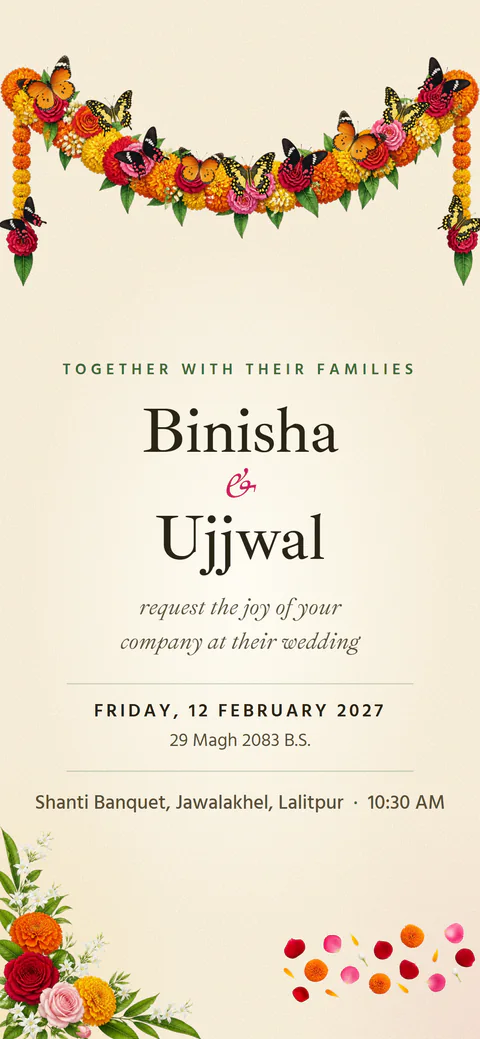
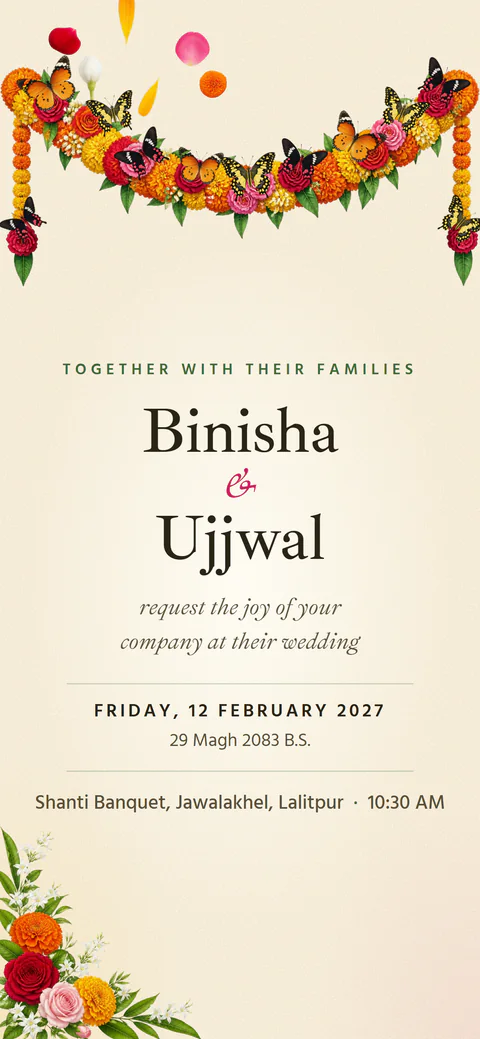
fix(vasant): ceremony date and time always visible; organic petal drifts
- Phone: the sticky ceremony heading now carries the date, B.S. date and time with the name
- Petal scatters are built from separate painted pieces: fewer, varied sizes and turns, spaced, drifting off one
  edge; kept away from the top-right buttons

diff --git a/src/themes/vasant/parts.js b/src/themes/vasant/parts.js
@@ -82,6 +82,28 @@ export function flowersFor(events) {
 export const RULE = `<svg class="va-rule" viewBox="0 0 240 24" aria-hidden="true" focusable="false"><path d="M10 12h88M142 12h88" fill="none" stroke="currentColor" stroke-width=".9" stroke-linecap="round"/><g fill="currentColor"><g transform="rotate(-30 70 12)"><path d="M70 12c4-6 10-8 15-7c-3 5 -8 7 -15 7z"/><path d="M70 12c4 6 10 8 15 7c-3-5 -8-7 -15-7z" opacity=".75"/></g><g transform="rotate(30 170 12)"><path d="M170 12c-4-6 -10-8 -15-7c3 5 8 7 15 7z"/><path d="M170 12c-4 6 -10 8 -15 7c3-5 8-7 15-7z" opacity=".75"/></g><g transform="rotate(-30 44 12)"><path d="M44 12c4-6 10-8 15-7c-3 5 -8 7 -15 7z"/><path d="M44 12c4 6 10 8 15 7c-3-5 -8-7 -15-7z" opacity=".75"/></g><g transform="rotate(30 196 12)"><path d="M196 12c-4-6 -10-8 -15-7c3 5 8 7 15 7z"/><path d="M196 12c-4 6 -10 8 -15 7c3-5 8-7 15-7z" opacity=".75"/></g><ellipse cx="120" cy="6.5" rx="2.6" ry="4.6"/><ellipse cx="120" cy="17.5" rx="2.6" ry="4.6"/><ellipse cx="114.5" cy="12" rx="4.6" ry="2.6"/><ellipse cx="125.5" cy="12" rx="4.6" ry="2.6"/><circle cx="120" cy="12" r="2.2" fill="#C2185B"/><circle cx="10" cy="12" r="1.5"/><circle cx="230" cy="12" r="1.5"/></g></svg>`;
 
 /** loose petals and marigold heads, laid in a gap (never behind text) */
-export const petals = (cls = '') => `<img class="va-petals ${cls}" src="${ART}petals-sm.webp" srcset="${ART}petals-sm.webp 700w, ${ART}petals.webp 1400w" sizes="(max-width: 719px) 86vw, 560px" width="1400" height="514" alt="" loading="lazy" decoding="async" aria-hidden="true" />`;
+// the separate petals and marigold heads of one painted scatter (petal-<k>.webp, [width, height])
+const PIECES = [[217, 220], [220, 211], [220, 214], [220, 210], [213, 220], [206, 220], [220, 209], [216, 220], [216, 220], [220, 213], [220, 216], [204, 196], [120, 192], [116, 192], [192, 132], [152, 172], [148, 164], [92, 196], [104, 188]];
+const rng = (seed) => { let s = (seed * 7919 + 13) % 2147483647; return () => (s = (s * 16807) % 2147483647) / 2147483647; };
+/** An organic petal drift: a few loose pieces of varied size and turn, thinning out toward one edge and slipping
+ *  past it (the container clips them). Deterministic per seed, so the page looks the same on every visit. */
+export function scatter(seed, { n = 6, side = 'right', cls = '' } = {}) {
+  const r = rng(seed);
+  const pool = PIECES.map((_, k) => k);
+  let html = '';
+  for (let i = 0; i < n; i++) {
+    const k = pool.splice(Math.floor(r() * pool.length), 1)[0];
+    const t = n > 1 ? i / (n - 1) : 0.5;
+    const along = 26 + t * 80 + (r() - 0.5) * 8; // evenly drifting toward the edge, the last one past it
+    const x = side === 'right' ? along : 100 - along;
+    const y = (i % 2 ? 62 : 30) + (r() - 0.5) * 22; // alternate high and low so no two pieces touch
+    const s = (0.5 + r() * 0.55) * (1.1 - 0.35 * t);
+    const rot = Math.round((r() - 0.5) * 150);
+    const [w, h] = PIECES[k];
+    const f = w / Math.max(w, h); // size by the longer side, so a slim petal is not drawn huge
+    html += `<img class="va-pc" src="${ART}petal-${k}.webp" width="${w}" height="${h}" style="left:${x.toFixed(1)}%;top:${y.toFixed(1)}%;--s:${s.toFixed(2)};--f:${f.toFixed(2)};rotate:${rot}deg" alt="" loading="lazy" decoding="async" />`;
+  }
+  return `<div class="va-scatter ${cls}" aria-hidden="true">${html}</div>`;
+}
 
 export const ROMAN = ['I', 'II', 'III', 'IV', 'V', 'VI', 'VII', 'VIII', 'IX', 'X', 'XI', 'XII'];

diff --git a/src/themes/vasant/main.js b/src/themes/vasant/main.js
@@ -11,7 +11,7 @@
 import manifest from './slots.js';
 import { mountSuite } from '../_suite/suite.js';
 import './vasant.css'; // after the suite's CSS, so the theme wins ties
-import { ART, SPECIES, butterfly, garland, FLOWERS, flowersFor, ROMAN, RULE, petals } from './parts.js';
+import { ART, SPECIES, butterfly, garland, FLOWERS, flowersFor, ROMAN, RULE, scatter } from './parts.js';
 
 const isPhone = () => window.matchMedia('(max-width: 899px)').matches;
 
@@ -23,7 +23,7 @@ function hero(ctx) {
     ${garland()}
     <div class="va-hero__decor" aria-hidden="true">
       <img class="va-corner-fl" src="${ART}corner-sm.webp" srcset="${ART}corner-sm.webp 700w, ${ART}corner.webp 1300w" sizes="(max-width: 719px) 46vw, 300px" width="1300" height="1372" alt="" decoding="async" />
-      <img class="va-hero__petals" src="${ART}petals-sm.webp" srcset="${ART}petals-sm.webp 700w, ${ART}petals.webp 1400w" sizes="(max-width: 719px) 52vw, 340px" width="1400" height="514" alt="" decoding="async" />
+      ${scatter(3, { n: 7, side: 'right', cls: 'va-hero__scatter' })}
     </div>
     <div class="va-hero__text">
       ${on(txt('hero.title')) ? `<p class="va-kicker su-in">${bi(txt('hero.title'))}</p>` : ''}
@@ -229,15 +229,15 @@ function page(ctx) {
       <li class="va-ev" id="ev-${esc(v.id)}" data-i="${i}">
         <article class="va-ev__card">
           <header class="va-ev__head"><p class="va-ev__no">${bi({ en: `Plate ${ROMAN[i] || i + 1} · ${FLOWERS[keys[i]].name.en}`, ne: `चित्र ${ctx.neNum(String(i + 1))} · ${FLOWERS[keys[i]].name.ne}` })}</p>
-          <h3 class="va-ev__title">${bi(v.title)}</h3></header>
+          <h3 class="va-ev__title">${bi(v.title)}</h3>
           <p class="va-ev__when"><span class="va-ev__ad">${bi({ en: v.ad.full.en, ne: v.bs.full.ne })}</span><span class="va-ev__bs">${bi({ en: v.bs.full.en, ne: v.ad.full.ne })}</span></p>
-          <p class="va-ev__time">${bi(v.time)}</p>
+          <p class="va-ev__time">${bi(v.time)}</p></header>
           ${v.blurb ? `<p class="va-ev__blurb">${bi(v.blurb)}</p>` : ''}
           <p class="va-ev__venue">${bi(v.venue)} <a class="su-link" href="${esc(v.map)}" target="_blank" rel="noopener">${bi(P.UI.map)}<span aria-hidden="true"> ↗</span><span class="sr-only"> (opens Google Maps)</span></a></p>
           ${v.dress.colors.length || v.dress.text?.en || v.dress.text?.ne ? `<p class="va-ev__dress">${v.dress.colors.length ? `<span class="su-sw" aria-hidden="true">${v.dress.colors.map((col) => `<i style="background:${col}"></i>`).join('')}</span>` : ''}<span>${bi(v.dress.text?.en || v.dress.text?.ne ? v.dress.text : P.UI.wear)}</span></p>` : ''}
           ${v.rituals.length ? `<details class="va-order"><summary>${bi(P.UI.order)}</summary><ol>${v.rituals.map((r) => `<li><span>${bi(r.time)}</span><span>${bi(r.title)}</span></li>`).join('')}</ol></details>` : ''}
         </article>
-        ${i < P.events.length - 1 ? `<div class="va-ev__gap" aria-hidden="true">${RULE}${petals()}</div>` : ''}
+        ${i < P.events.length - 1 ? `<div class="va-ev__gap" aria-hidden="true">${RULE}${scatter(11 + i * 5, { n: 5, side: 'left', cls: 'va-gap__scatter' })}</div>` : ''}
       </li>`).join('');
   const progSec = `
   <section class="su-sec va-sec va-bloom" id="programme" aria-labelledby="prog-title">

diff --git a/src/themes/vasant/vasant.css b/src/themes/vasant/vasant.css
@@ -72,7 +72,7 @@ body.su-locked .va-hero .su-in { opacity: 0; }
 .va-hero__decor { position: absolute; inset: 0; z-index: 0; pointer-events: none; transition: opacity 0.9s cubic-bezier(0.22, 0.8, 0.24, 1) 0.6s; }
 body.su-locked .va-hero__decor { opacity: 0; transition: none; }
 .va-corner-fl { position: absolute; left: -1.5%; bottom: -1%; width: min(300px, 44vw); height: auto; }
-.va-hero__petals { position: absolute; right: 1%; bottom: 4%; width: min(320px, 40vw); height: auto; rotate: -5deg; }
+.va-hero__scatter { position: absolute; right: 0; bottom: 1%; width: min(380px, 50vw); height: min(190px, 30vw); overflow: hidden; }
 .va-hero > .va-hero__text { flex: 1; justify-content: center; }
 .va-garland { position: relative; width: min(780px, 56vw); margin: 0 auto; }
 .va-garland__img { display: block; width: 100%; height: auto; }
@@ -311,7 +311,10 @@ body.va-still .va-bf .va-bf__w { animation: none !important; transform: none; }
 .va-rule { display: block; width: min(220px, 58vw); height: auto; margin: 0 auto; color: #A8833A; }
 .va-head .va-rule { margin-bottom: 6px; }
 .va-ev__gap { display: flex; flex-direction: column; align-items: center; gap: 14px; width: 100%; max-width: 500px; padding: 40px 0 8px; }
-.va-petals { display: block; width: min(300px, 72%); height: auto; }
+.va-scatter { position: relative; }
+.va-pc { position: absolute; width: calc(var(--pc, 50px) * var(--s, 1) * var(--f, 1)); height: auto; translate: -50% -50%; }
+.va-gap__scatter { width: 100%; height: 120px; overflow: hidden; }
+@media (max-width: 719px) { .va-pc { --pc: 44px; } .va-gap__scatter { height: 100px; } }
 .va-strand { position: absolute; top: 0; bottom: 0; right: max(10px, calc(50% - 712px)); width: clamp(48px, 4.6vw, 70px); pointer-events: none; }
 .va-strand img { position: sticky; top: 72px; display: block; width: 100%; height: calc(100vh - 96px); object-fit: contain; object-position: 50% 0; }
 .va-bloom { position: relative; }
